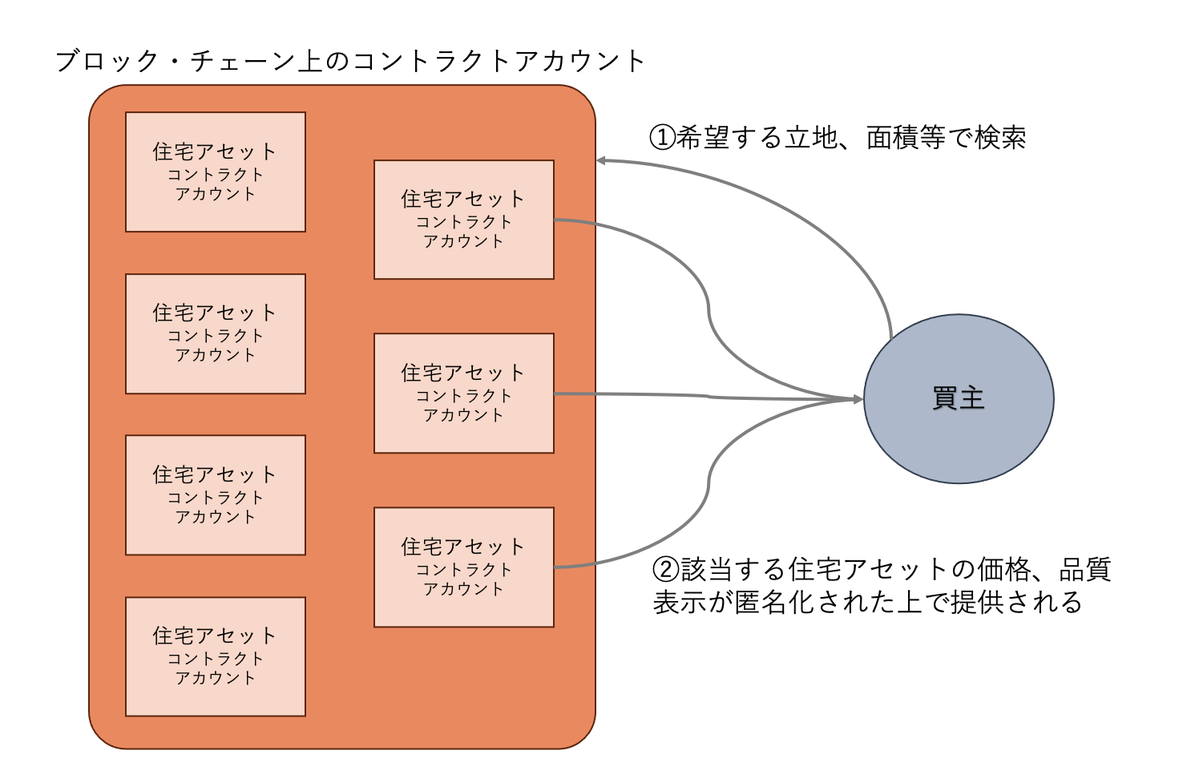
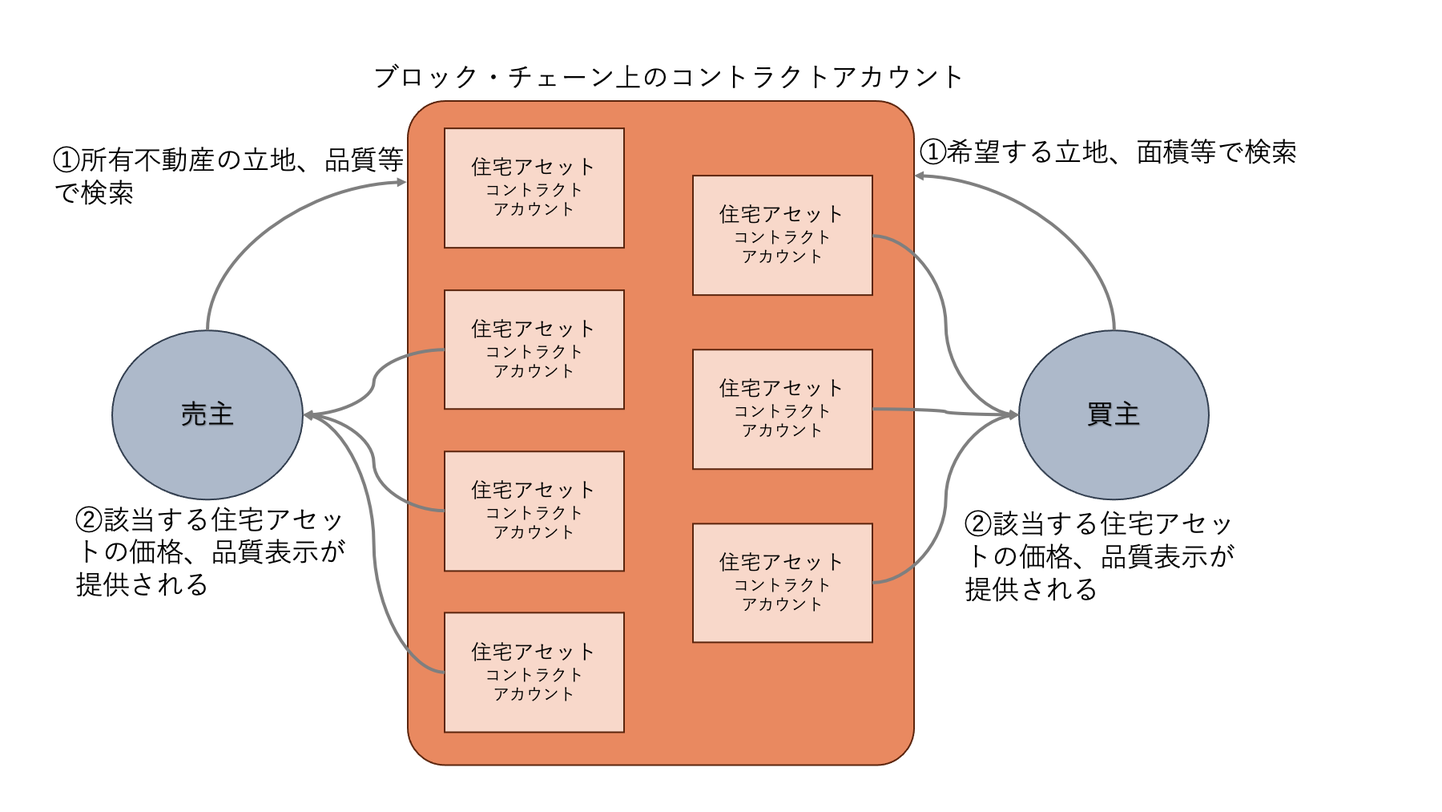
Add files via upload

diff --git a/main.tex b/main.tex
@@ -21,8 +21,8 @@
 \date{}
 \maketitle
 \begin{abstract}
-本稿では、日本の中古住宅市場を対象として、住宅の売買取引においてスマートコントラクトをどのように導入することができるか検討するとともに、スマートコントラクトの活用により住宅の品質や価格の情報が円滑に共有されることで、住宅の取引価格にどのような影響を及ぼすか検証する。
-日本の中古住宅市場は売主、買主といった市場参加者の間で住宅の品質などの情報の非対称性が高く、いわゆるレモンの市場であると指摘されている。品質などの情報の非対称性が高い結果、買主は購入する住宅の品質が低い可能性を想定し、低い値付けをする。市場に供給される住宅が全て低く値付けされることで、質の良い住宅が市場に供給されにくい悪循環が起きている。また、住宅の品質向上に必要なリフォームも、品質情報が共有されない市場では取引価格の引き上げ効果が期待できないために実施されず、住宅ストック全体の品質向上を妨げている。このような中古住宅市場の問題により、家計が保有する住宅の資産価値は低くなり、家計の活発な消費や投資に繋がらない。
+本稿では、日本の中古住宅市場を対象として、住宅の売買取引においてスマートコントラクトをどのように導入できるか検討するとともに、スマートコントラクトの活用により住宅の品質や価格の情報が円滑に共有されることで、住宅の取引価格にどのような影響を及ぼすか検証する。
+日本の中古住宅市場は売主、買主といった市場参加者の間で住宅の品質などの情報の非対称性が高く、いわゆるレモンの市場であると指摘されている。品質などの情報の非対称性が高い結果、買主は品質が低い可能性を想定し、全ての住宅を安く値付けをする。市場の住宅が全て安く値付けされることで、質の良い住宅が市場から淘汰される逆選択が起きている。また、住宅の品質向上に必要なリフォームも、品質情報が共有されない市場では、取引価格の引き上げ効果が期待できないために実施されず、住宅ストック全体の品質向上を妨げている。このような中古住宅市場の問題により、家計が保有する住宅の資産価値は低くなり、家計の活発な消費や投資に繋がらない。
 
 中古住宅市場における情報の非対称性を解消する手法として、スマートコントラクトを活用した住宅取引の導入を考える。スマートコントラクトはブロックチェーン上で資産の移転などの処理を行うプログラムである。スマートコントラクトによる資産の移転はブロックチェーン上に改ざん出来ない形で記録され、ブロックチェーンの参加者は誰もがこれらの情報を参照することができる。住宅市場へのスマートコントラクトの活用は、契約当事者双方の確実な債務履行や無権利者の取引参加を排除するといったエスクローとしての活用が中心であった。しかし、情報の非対称性が高い住宅市場においては、エスクローとしての活用に加えて、実際の住宅取引の情報を参照できるデータベースとしての活用の価値も大きい。ただし、実際の住宅取引の情報は取引参加者のプライバシーに関わる情報である事から、データベースとしての利用にあったては、参照される情報に一定の匿名性を持たせる必要がある。本稿では、これらの点を考慮したスマートコントラクトの仕様を検討する。スマートコントラクトの活用によって住宅の品質や過去の取引価格などの情報が全ての参加者から参照可能となった場合、住宅の取引価格にどのような影響が発生するかの検証には、住宅取引を単純化したゲームによるマルチエージェントシミュレーションを行った。シミュレーションでは、品質の情報が買主から参照可能になる事によって、市場全体として見た場合の売主の利得は向上し、成約率も改善することが確認できた。
 
@@ -35,18 +35,19 @@
 
 \newpage
 \chapter{序論}
-日本の住宅市場は新築住宅に偏重しており、中古住宅の流通量は少ない。2015年の国土交通白書によると日本の住宅取引全体に占める中古住宅取引の割合は14.7\%であり、アメリカ(同89.3\%)、イギリスの(同88.0\%)、フランス(同68.4\%)と比較して大幅に低い水準となっている\cite{hakusho}。一方で、総務省の住宅・土地統計調査によると、日本の住宅総数は、2018年の段階で総世帯数に対して約879万戸超過している。居住者のいない住宅の存在は都市部でも顕著であり、首都圏の一都三県における居住者のいない住宅戸数は200万戸を超えている。しかし、中古住宅市場の流通量は少なく、これらの居住者がいない住宅ストックの活用が進んでいない。このため、日本の住宅は新築から25年程度で建物の価値が半分になると指摘されている（吉田 2016)\cite{yoshida2016}。
-また、住宅が平均して建築後何年で取り壊されているかを調査した滅失住宅の平均築後年数は、日本が32.1年に対してアメリカは66.6年、イギリスは80.6年となっている\cite{kizonjutaku}。
+日本の住宅市場は新築住宅に偏重しており、中古住宅の流通量は少ない。2015年の国土交通白書によると日本の住宅取引全体に占める中古住宅取引の割合は14.7\%であり、アメリカ(同89.3\%)、イギリスの(同88.0\%)、フランス(同68.4\%)と比較して大幅に低い水準となっている\cite{hakusho}。一方で、総務省の住宅・土地統計調査によると、日本の住宅総数は、2018年の段階で総世帯数に対して約879万戸超過している。居住者のいない住宅は都市部でも顕著であり、首都圏の一都三県における居住者のいない住宅戸数は200万戸を超えている。しかし、中古住宅市場の流通量は少なく、これらの居住者がいない住宅ストックの活用が進んでいない。このため、日本の住宅は新築から25年程度で建物の価値が半分になると指摘されている（吉田 2016)\cite{yoshida2016}。
+また、住宅が平均して建築後何年で取り壊されているかを調査した滅失住宅の平均築後年数は、アメリカが66.6年、イギリスが80.6年であるのに対し、日本は32.1年であり、より短い期間で住宅が取り壊されていることがわかる\cite{kizonjutaku}。
 
-諸外国よりも相対的に短い期間で建物の価値が減少する傾向にあるものの、住宅は日本の家計の資産構成において大きな割合を占めている。日本の家計が保有する住宅・宅地資産の総額は1,000兆円を超えると言われており、家計が保有する現金・預金等の総額940兆円を上回る。しかし、日本において住宅の建物部分の価値は短い期間で減少してしまうため、国内でこれまでに行われた住宅投資の累計が約890兆円にのぼるのに対し、その現在評価額は投資額累計を500兆円以上下回る約350兆円程度であると指摘されている\cite{roundtable}。一方で、アメリカでは減価償却以上に修繕やリフォームが行われる事により住宅資産額が住宅投資額累計を上回る状況にあり、住宅がアメリカでは資産として活用されているが、日本では耐久諸費材として消費されていると指摘されている(小島 2013)\cite{kojima2013}。
+次に日本の家計の資産構成を見ると、他国よりも資産としての寿命の短い住宅が資産構成において大きな割合を占めている。日本の家計が保有する住宅・宅地資産の総額は1,000兆円を超えると言われており、家計が保有する現金・預金等の総額940兆円を上回る。しかし、日本において住宅の建物部分の価値は短い期間で減少してしまうため、国内でこれまでに行われた住宅投資の累計が約890兆円にのぼるのに対し、その現在評価額は投資額累計を500兆円以上下回る約350兆円程度であると指摘されている\cite{roundtable}。一方で、アメリカでは減価償却以上に修繕やリフォームが行われる事により住宅資産額が住宅投資額累計を上回る状況にある。このことから、アメリカでは住宅が資産として活用されているが、日本では耐久諸費材として消費されているとの指摘がされている(小島 2013)\cite{kojima2013}。
 中古住宅の評価が改善され、家計が保有する住宅資産の価値が向上すれば、住宅を資金化した場合の金融資産の増大に繋がり、それが投資や消費に回ることで日本経済に好循環をもたらすことが期待できる。
 
-日本において中古住宅の活用が進まない背景には、日本人が過度に新築を好むといった心情の問題だけでなく、消費者が中古住宅の品質や価格に不安や懸念を抱いていることも影響している。国土交通省の住宅市場動向調査において、新築の注文住宅、分譲住宅、分譲マンションの購入者に、なぜ中古住宅を購入しなかったか、理由を聞いた結果が表\ref{doukou}の通りであり、住宅の品質や瑕疵の存在を懸念して中古住宅を購入しなかった層が多数存在していることが分かる。山崎(2014)\cite{yamasaki2014}が指摘する通り、日本の中古住宅市場は、消費者が中古住宅についての情報を十分に得ることができず、売主と買主の間で大きな情報の非対称性が存在する「レモンの市場」となっており、このことが日本の中古住宅市場が拡大しない大きな要因であると考えられる。
-中古住宅市場が未整備となっている結果、ライフステージの変化に応じて住宅を売却し住み替えを行うという動因が消費者に働きにくくなる。日本では中古住宅としての売却が想定し難いため、建築主が個人の趣味に合わせた間取りやデザインを優先する注文住宅の比率が高い。日本の新築住宅に占める注文住宅の割合は7割程度、建売の分譲住宅は3割程度であるが、アメリカではこの比率が逆転しており建売の分譲住宅の方が一般的である。さらに、所有期間中のメンテナンスも必要最小限が行われるのみであり、建物の価値を維持、向上する観点からのメンテナンスが行われていない。このため、中古住宅市場には品質の低い住宅が多く供給されることになり、消費者から敬遠されるという悪循環が発生している。
+日本で中古住宅の活用が進まない背景には、日本人が過度に新築を好むといった心情の問題だけではなく、消費者が中古住宅の品質や価格に不安や懸念を抱いていることも影響している。国土交通省の住宅市場動向調査において、新築の注文住宅、分譲住宅、分譲マンションの購入者に、なぜ中古住宅を購入しなかったか、理由を聞いた結果が表\ref{doukou}の通りであり、住宅の品質や瑕疵の存在を懸念して中古住宅を購入しなかった層が多数存在していることが分かる。山崎(2014)\cite{yamasaki2014}が指摘する通り、日本の中古住宅市場は、買主が中古住宅についての情報を十分に得ることができず、売主と買主の間で大きな情報の非対称性が存在する「レモンの市場」となっている。買主は住宅の品質情報を持たないため、品質が低い可能性を考慮して全ての住宅について購入価格を引き下げる。全ての住宅の購入価格が引き下げられる結果、質の良い住宅が市場から淘汰される逆選択が起こる。このことが日本の中古住宅市場が拡大しない大きな要因であると考えられる。
 
-中古住宅市場が抱えるこれらの問題を解消するためには、市場の全ての参加者が住宅の品質や価格について、取引実績の情報を参照でき、取引時には対象となる住宅の品質情報を把握できることが有効であると考えられる。日本の既存住宅市場における情報開示量が成約価格や成約率、売り出し価格に与える影響について、藤澤（2016）\cite{fujisawa2016}は住宅の質情報がわかりやすく全開示情報となれば良質な維持管理へのインセンティブを与えると指摘している。現在でも取引実績の情報を提供する取り組みや品質情報を把握するための制度は存在するが、様々な理由から普及しているとは言い難い。スマートコントラクトの活用は、データの修正や改ざんを防ぎ、データが誰にでも参照可能な形で提供されることで、この問題の解消に寄与すると考えられる。
+中古住宅市場が拡大しない結果、ライフステージの変化に応じて住宅を売却し、住み替えを行うという動因が所有者に働きにくい。そのため、日本では建築主の趣味に合わせた間取りやデザインを優先する注文住宅の比率が高くなっている。日本の新築住宅に占める注文住宅の割合は7割程度、建売の分譲住宅は3割程度であるが、アメリカではこの比率が逆転しており建売の分譲住宅の方が一般的である。さらに、所有期間中のメンテナンスも、日本では必要最小限が行われるのみであり、建物の価値を維持、向上する観点からのメンテナンスが行われていない。情報の非対称性により中古住宅市場が活性化しないことで、質の良い中古住宅の市場供給が妨げられ、さらに買主が中古住宅を敬遠する悪循環が発生している。
 
-本稿では、第2章において日本の中古住宅市場の特徴をより詳細に確認し、第3章、4章では住宅の価格決定に関する先行研究を整理する。第5章ではスマートコントラクトの概要を整理し、第6章において住宅取引へのスマートコントラクト導入の検討を行う。第7章、8章ではスマートコントラクトが住宅取引にもたらす影響を検討するため、マルチエージェントシミュレーションによる検証を行う。第9章で関連研究との比較を行い、第10章は結論となる。
+中古住宅市場が抱えるこれらの問題を解消するためには、市場の全ての参加者が住宅の品質や価格について、取引実績を参照でき、取引対象の住宅の品質情報を正しく把握できることが必要であると考えられる。日本の既存住宅市場における情報開示量が成約価格や成約率、売り出し価格に与える影響について、藤澤（2016）\cite{fujisawa2016}は住宅の品質情報がわかりやすく全開示情報となれば良質な維持管理へのインセンティブを与えると指摘している。現在でも取引実績の情報を提供する取り組みや品質情報を把握するための制度は存在するが、様々な理由から普及しているとは言い難い。スマートコントラクトの活用は、情報の修正や改ざんを防ぎ、情報が誰にでも参照可能な形で提供されることで、この問題の解消に寄与すると考えられる。
+
+本稿では、第2章において日本の中古住宅市場の特徴をより詳細に確認し、住宅の価格決定に関する先行研究を整理するとともに、スマートコントラクトの概要を整理する。第3章では住宅取引へのスマートコントラクト導入の検討を行う。第4章ではスマートコントラクトが住宅取引にもたらす影響を検討するため、マルチエージェントシミュレーションによる検証を行い、第5章でシミュレーションの評価を行う。第6章で関連研究との比較を行い、第7章は結論となる。
 
 \begin{table}
 \begin{center}
@@ -86,7 +87,7 @@
 \chapter{背景}
 \section{日本の住宅市場}
 \subsection{日本の住宅市場の概要}
-日本の総住宅数と総世帯数の関係を見ると、1968年の調査で総住宅数が総世帯数を上回り、直近では総世帯数の1.16倍の住宅が存在している。2018年10月1日時点で日本国内には約6240万戸の住宅があり、この内879万戸には誰も居住していない。人が居住していない住宅のうち、賃貸用の住宅や売却用の住宅を除いた「空き家」は348万戸となっている\cite{tochitokei}。一方で、人が居住している住宅の所有関係を見ると、約６割が持ち家で約４割が借家となっている。世帯数に対して住宅数が超過している状況にあるものの、毎年90万戸程度の住宅が新たに供給され\cite{kenchikuchakkou}、11万戸程度の住宅が取り壊されている。住宅が頻繁に建て替えられる状況は、CO2の排出など環境面の負荷も指摘されている(The Guardian 2014)\cite{guardian}。
+日本の総住宅数と総世帯数の関係を見ると、1968年の調査で総住宅数が総世帯数を上回り、直近では総世帯数の1.16倍の住宅が存在している。2018年10月1日時点で日本国内には約6240万戸の住宅があり、この内879万戸には誰も居住していない。人が居住していない住宅のうち、賃貸用の住宅や売却用の住宅を除いた「空き家」は348万戸存在している\cite{tochitokei}。人が居住している住宅の所有関係を見ると、約6割が持ち家で約4割が借家となっている。総世帯数に対して総住宅数が大幅に超過している状況でも、日本では毎年90万戸程度の住宅が新たに供給されている\cite{kenchikuchakkou}。11万戸程度の住宅が取り壊されているが、新規供給数が多いため、総住宅数も空き家も年々増加している。前述の通り、日本の住宅は取り壊しまでの期間が短く、住宅が頻繁に建て替えられる状況については、CO2の排出など環境面の負荷も指摘されている(The Guardian 2014)\cite{guardian}。
 
 日本国内の中古住宅の取引は、戸建て住宅が年間18万件、マンションが19万件程度行われている。取引主体別の件数を見ると、売主、買主がともに個人同士で行われてる取引が、戸建て住宅で53\%、マンションで45\%であり、最も多い\cite{fudosantorihiki}。住宅をはじめとした不動産の取引は、売主と買主の仲介を行う宅地建物取引業者を介して行われることが一般的であり、売主、買主がともに個人同士の取引においても同様である。宅地建物取引業者が不動産情報の交換を行う仕組みとして不動産流通機構の「レインズ(REINS：Real Estate Information Network System)」がある。これは、不動産流通機構の会員である宅地建物取引業者がアクセスできるシステムであり、住宅の売却や購入を希望する個人は直接アクセスすることができない。宅地建物取引業者は、売却や購入の仲介の依頼を受けた情報を、必ずしも全てレインズに登録する必要はない。また、レインズに登録した物件の取引が成立した場合も、その情報がレインズに登録されない場合もある\cite{fudosanjoho}。住宅以外も含めたレインズへの売却物件の新規登録件数は、2019年が169万件であり、成約報告件数は18万件である\cite{shiteiryutsu}。
 
@@ -148,41 +149,53 @@ C=P\times(\delta+\mu+\tau+i-\pi_H)
 摩擦のない市場では資本の限界収益率がユーザーコストと等しくなるときが最適な投資となるため、住宅市場における最適な投資が行われている世界では住宅の賃料と保有コストは等しくなる。賃料を$R$とした場合、$R=C$となるように住宅の供給が決まると考えられる。しかし、実証分析では賃料と保有コストの間に乖離が確認されている(Garner and Verbrugge 2009)\cite{garner2009}。賃料と保有コストの乖離についてChinloy et al(2020)\cite{chinloy2020}は、賃料が限界費用コストに加えて住宅ローンやインフレのショックを回避するためのプレミアムを含んでいると分析している。
 
 \section{スマートコントラクト}
-スマートコントラクトは、ブロックチェーン上で資産の移転などの処理を行うプログラムであり、法的な契約ではない。従来の紙や電子契約においては、契約の条件が満たされているかの判断は自動では行われず、各契約当事者が確認を行う必要があった。スマートコントラクトでは、契約の条件が満たされたかの確認はプログラムが行い、契約内容の執行はブロックチェーン上の価値の移転によって自動的に行うことができる。スマートコントラクトで実行された内容はブロックチェーン上に改ざんできない形で記載されるため、取り消すことができない。これはCode is lawとよく言われる概念であり、スマートコントラクトにおいては、ブロックチェーン上に書かれたプログラムが、契約書であり、裁判所でもあることになるなる\cite{nagasawa2013}。
+\subsection{ブロックチェーン}
+ブロックチェーンは、あるルールによって検証された情報が納められたブロックの繋がりであり、一度ブロックに納められた情報はブロック同士の繋がりを維持したまま変更することができないため、現実的に改ざんが不可能となる。ブロックチェーンには全ての情報を一元管理する存在がなく、参加者(ノード)がそれぞれに同じ情報を保有しあっており、参加者は全てのブロックの情報を参照できるようになっている。ブロックチェーンの信頼性は、情報をブロックに納める際の検証作業で担保されるが、この検証作業には大きな計算能力が必要となる。この検証作業を行う参加者をマイナーとよび、マイナーは参加しているブロックチェーンのネイティブ通貨で報酬を受け取り検証作業を行う。斉藤(2017)\cite{saito2017}はブロックチェーンの機能の階層構造を「正当性の保証」、「存在の証明」、「唯一性の合意」、「ルールの記述・執行」で整理している。
+
+\subsection{スマートコントラクト}
+スマートコントラクトは、ブロックチェーン上で資産の移転などの処理を行うプログラムであり、法的な契約ではない。従来の紙や電子契約においては、契約の条件が満たされているかの判断は自動では行われず、各契約当事者が確認を行う必要があった。スマートコントラクトでは、契約の条件が満たされたかの確認はプログラムが行い、契約内容の執行はブロックチェーン上の価値の移転によって自動的に行うことができる。スマートコントラクトで実行された内容はブロックチェーン上に改ざんできない形で記載されるため、取り消すことができない。これはCode is lawとよく言われる概念であり、スマートコントラクトにおいては、ブロックチェーン上に書かれたプログラムが、契約書であり、裁判所でもあることになる\cite{nagasawa2013}。
 スマートコントラクトが実行されるブロックチェーンネットワークには、パブリックとプライベートの区別がある。パブリックブロックチェーンは誰でも読み込み、書き込むことができる。プライベートブロックチェーンではユーザー毎に異なる権限設定を行える。Ethereum、Bitcoinはパブリックブロックチェーンであり、プライベートブロックチェーンとしてはHyperledger Fabricなどがある。
+プライベートブロックチェーンであるEthereumを基盤としたスマートコントラクトは、スマートコントラクトの実行結果は、実行を開始するトランザクションのコンテクストと、実行時のブロックチェーンの状態を前提に、トランザクションを実行する全ての人にとって同一となる(Antonopoulos and Wood 2019)\cite{antonopoulos2019}。
 
-スマートコントラクトの概念は、Ethereumなどの分散型ブロックチェーンプラットフォームが導入されて以降、顕著に発展しているが、現時点では「デジタルに表現される資産をあらかじめ定められたルールに従って自動的に移転させることにすぎず、また、そのことすら実現上の課題が多い」（斉藤2017)\cite{saito2017}との指摘がされている。スマートコントラクトの住宅取引への活用事例としては、米国のPROPY\footnote{https://propy.com}がある。同社は不動産の売買取引において、売主と買主を取り持つ第三者として売主から権利証書、買主から売買代金を預かり、行政の登記手続きが終了するまでの間、ブロックチェーン上に取引の情報を記録し、登記手続きが完了すると権利証書と売買代金の移転を行うというサービスをオンライン上で提供している。同じく米国のRentberry\footnote{https://rentberry.com}は、米国およびヨーロッパの都市部において賃貸住宅の仲介サービスを提供しており、入居者はオンライン上で全ての契約手続きを完了させることができる。さらに、Rentberryでは、敷金の支払いが難しい入居者が第三者から敷金の借り入れを受けることができるP2Pレンディングサービスも提供している。
+\subsection{Ethereumスマートコントラクト}
+Ethereumブロックチェーンでは、外部所有アカウント(EOA)とコントラクトアカウントの2種類のアカウントがある。外部所有アカウントはブロックチェーンの参加者によって、参加者のために作成されたアカウントであり、コントラクトアカウントはトランザクションを受信することで実行されるコードを含むアカウントである。これらのアカウントはアドレスやネイティブ通貨であるEtherの残高などの情報を持っている(Antonopoulos and Wood 2019)\cite{antonopoulos2019}。
 
-日本国内での不動産分野におけるスマートコントラクト活用事例としては、株式会社GA technologiesによる不動産賃貸契約へのスマートコントラクト導入の取り組みがある\footnote{https://www.ga-tech.co.jp/news/1600/}。この取り組みは日本IBMがHyperledger Fabricを基盤として提供するIBM Blockxhain Platform上で開発を行うとの発表されていた。しかし、その後実用化したとの発表はない。
+\subsection{住宅・不動産分野における活用事例}
+スマートコントラクトの概念は、Ethereumなどの分散型ブロックチェーンプラットフォームが導入されて以降、顕著に発展しているが、現時点では「デジタルに表現される資産をあらかじめ定められたルールに従って自動的に移転させることにすぎず、また、そのことすら実現上の課題が多い」(斉藤2017)\cite{saito2017}との指摘がされている。スマートコントラクトの住宅取引への活用事例としては、米国のPROPY\footnote{https://propy.com}がある。同社は不動産の売買取引において、売主と買主を取り持つ第三者として売主から権利証書、買主から売買代金を預かり、行政の登記手続きが終了するまでの間、ブロックチェーン上に取引の情報を記録し、登記手続きが完了すると権利証書と売買代金の移転を行うというサービスをオンライン上で提供している。同じく米国のRentberry\footnote{https://rentberry.com}は、米国およびヨーロッパの都市部において賃貸住宅の仲介サービスを提供しており、入居者はオンライン上で全ての契約手続きを完了させることができる。さらに、Rentberryでは、敷金の支払いが難しい入居者が第三者から敷金の借り入れを受けることができるP2Pレンディングサービスも提供している。
+
+日本国内での不動産分野におけるスマートコントラクト活用事例としては、株式会社GA technologiesによる不動産賃貸契約へのスマートコントラクト導入の取り組みがある\footnote{https://www.ga-tech.co.jp/news/1600/}。この取り組みは、日本IBMがHyperledger Fabricを基盤として提供しているIBM Blockxhain Platform上で開発を行うとの発表されていた。しかし、その後実用化したとの発表はない。
 
 \chapter{住宅市場へのスマートコントラクトの導入}
 \section{解くべき問題}
 中古住宅市場における問題は、売主と買主の間で住宅の品質に関する情報が共有されておらず、適切な値付けが行われないことである。買主としては住宅の品質が分からない以上、品質が低い場合にも損をしないような値段づけを行うことになる。これに対して、売主、買主以外の第三者が、取引対象の住宅に対して、その品質を調査し証明を行い、その情報をブロックチェーン上に記録することを検討する。これにより、買主は住宅の品質を確認することができるようになり、ブロックチェーン上にある他の売買事例を参考にして、購入を検討している住宅に対するより適正な値付けを行うことができる。これらの情報は、現在も利用可能なアンケート調査や仲介業者の自己申告によるデータのように修正や改ざんの余地がある方法で収集された情報では、その情報全体の信頼性が下がってしまう。そのため、実際の建物状況調査の情報や取引価格などの情報が、修正や改ざんがされない形で収集されることが重要である。この観点でスマートコントラクトによって住宅取引を行い、その住宅取引の情報がブロックチェーン上に記録され、取引当事者以外のブロックチェーンの参加者が誰でも実際の取引情報を参照することができることが重要である。一方で、住宅の品質や過去の取引価格は、住宅の所有者にとっては他者に知られたくない個人情報である。個別の住宅の品質情報や価格情報を市場に提供すればするほど、市場における情報の非対称性は是正され、品質の不透明性によるディスカントは解消されると考えられるが、個人情報が侵害されるのであれば、それらの情報を提供するインセンティブが働きにくい。日本の中古住宅市場が抱える課題の解決には、情報の匿名性を担保した上で、価格や品質の情報に誰もがアクセスできる仕組みを作ることが必要であり、スマートコントラクトによる住宅取引は有効な解決策になり得る。
 
-斉藤（2017）\cite{saito2017}は不動産取引が売主、買主などの取引関係者が一同に会して行われている背景として、「意思確認の効率化と、契約不履行による様々なリスクを避けるためといった理由があると考えられる」と指摘した上で、意思確認とリスク回避の手段としてスマートコントラクトを用いて売買を成立させることができるモデルを紹介している。
+\section{住宅取引の関与者}
+本稿ではEthereumブロックチェーンを基盤とするスマートコントラクトでの住宅取引を検討する。このスマートコントラクトの関与者は売主、買主に加えて住宅の品質を調査するインスペクター、インスペクターが調査した品質を保証する保険会社であり、これらが外部所有アカウントである。コントラクトアカウントとしては住宅アセット、住宅売買契約、保険契約を想定する。それぞれのアカウントの定義及び保有する情報は以下の通りである。
+\begin{itemize}
+	\item 売主
+    \par 住宅アセットに所有者として登録されている外部所有アカウント。売買取引の実施にあたりトランザクションを作成し実行することができる。
+    \item 買主
+    \par 住宅取引の相手方となる外部所有アカウント。購入代金としてEtherを所有している。売買取引の実施にあたりトランザクションを作成し実行することができる。
+    \item インスペクター
+    \par 建物状況調査を実施できる資格を持つ外部所有アカウント。住宅アセットの住宅性能表示を登録することができる。
+    \item 保険会社
+    \par 住宅瑕疵担保責任保険法人である外部所有アカウント。保険契約における保険会社になることができる。
+	\item 住宅アセット	
+	\par 土地及び土地に付属する建物の所有権をデジタル資産として表現したコントラクトアカウント。他の住宅アセットと識別するための住所、面積、過去の取引価格、所有者のアドレス、住宅性能表示、保険契約の情報を持つ。所有者のアドレス、住所以外の情報は第三者から参照可能となっている。
+	\item 住宅取引契約
+    \par 住宅アセットの所有者の変更を行うコントラクトアカウント。売主または買主のトランザクションで開始される。売主からの所有権移転トランザクションと買主の送金トランザクションが揃った場合に住宅アセットに所有者移転のトランザクションを送る。
+	\item 保険契約
+    \par 保険契約を行うコントラクトアカウント。売主または買主のトランザクションで開始される。インスペクターに住宅性能表示の実施を指示し、保険会社には住宅性能表示の検証を指示する。
+\end{itemize}
 
-図\ref{search}は
+\section{取引情報の検索}
+転職や結婚などの事情により、住宅の売却または購入を行う場合、人々はそれぞれに自身が所有する住宅がいくらで売れるか、自身が購入を希望する住宅がいくらで帰るか相場を調べる。スマートコントラクトを用いた住宅取引では、住宅アセットのコントラクトアカウントがそれぞれに住宅性能表示の情報、過去の取引価格情報を保有している。売主は自身が所有する住宅と類似する立地や品質などで検索を行い、参照価格の情報を得ることができる(図\ref{search})。
+
 \begin{figure}
  \centering
  \includegraphics[width=15cm]{search.png}
- \caption{住宅情報の探索}
+ \caption{ブロックチェーン上の住宅アセットの情報探索}
  \label{search}
-\end{figure}
-
-図\ref{spa}は
-\begin{figure}
- \centering
- \includegraphics[width=15cm]{spa.png}
- \caption{スマートコントラクトでの売買契約}
- \label{spa}
-\end{figure}
-
-図\ref{insurance}は
-\begin{figure}
- \centering
- \includegraphics[width=15cm]{insurance.png}
- \caption{保険契約の締結}
- \label{insurance}
 \end{figure}
 
 図\ref{flow}は
@@ -193,45 +206,38 @@ C=P\times(\delta+\mu+\tau+i-\pi_H)
  \label{flow}
 \end{figure}
 
+\section{住宅取引契約}
+住宅取引のコントラクトアカウントは、売主または買主からのトランザクションで開始される。図\ref{spa}
 
+\begin{figure}
+ \centering
+ \includegraphics[width=15cm]{spa.png}
+ \caption{住宅売買取引}
+ \label{spa}
+\end{figure}
+
+
+\section{保険契約}
+保険契約のコントラクトアカウントは、売主または買主からのトランザクションで開始される。図\ref{insurance}
+
+\begin{figure}
+ \centering
+ \includegraphics[width=15cm]{insurance.png}
+ \caption{保険契約の締結}
+ \label{insurance}
+\end{figure}
+
+\section{スマートコントラクトのコスト}
+Ethereumブロックチェーンにおいてスマートコントラクトを実行する場合、Gasと呼ばれる手数料が必要となる。コントラクトは通常、実行にあたって使用されるガスの上限であるガスリミットが設定されている。
+
+\subsection{唯一性の合意}
+
+%斉藤（2017）\cite{saito2017}は不動産取引が売主、買主などの取引関係者が一同に会して行われている背景として、「意思確認の効率化と、契約不履行による様々なリスクを避けるためといった理由があると考えられる」と指摘した上で、意思確認とリスク回避の手段としてスマートコントラクトを用いて売買を成立させることができるモデルを紹介している。
 
 \chapter{シミュレーションの実行}
 住宅の品質を新築時に決まるものと、所有期間における維持管理によって決まるものに分類し、売主は住宅を売却する段階で品質を変更することはできず、品質を所与として価格設定を行うものとする。売主は住宅を所有するもの中から$\lambda_{d}$の確率で発生するとする。
 
 藤澤(2016)では、売主と買主はそれぞれ同数として、売主、買主の探索の摩擦を考慮していない。しかし、現実の住宅取引においては、売主と買主の数は等しいとは限らない。Duffie(2007)は売主の数が買主よりも少ない場合、取引価格は減少すると指摘している。そこで本研究では、住宅の所有者のうち、一定の確率で住宅を所有する意思が低下し、
-\section{住宅取引の関与者}
-売主、買主に加えてインスペクター、保険会社%、銀行
-が関与すると想定される。これらがそれぞれに外部所有アカウントを持っている。今回検討するモデルでは住宅自体がアカウントをもち、品質情報を持っていることを考える。
-\begin{itemize}
-	\item 売主
-    \par 住宅アセットに所有者として登録されている外部所有アカウント。売買の実施にあたりトランザクションを作成し実行することができる。
-    \item 買主
-    \par 住宅の取得を希望している外部所有アカウント。Ethereumの場合はEtherを所有している。売買の実施にあたりトランザクションを作成し実行することができる。
-    \item インスペクター
-    \par 
-    \item 保険会社
-    %\item 銀行
-	\item 住宅アセット	
-	\par 土地及び土地に付属する建物の所有権をデジタル資産として表現したコントラクトアカウント。他の住宅アセットと識別するための住所、面積の情報、過去の取引価格、住宅性能表示、保険契約の情報を持っており、これらの情報は第三者から参照可能となっている。
-	\item 住宅売買契約
-	\item 保険契約
-
-\end{itemize}
-
-
-\section{ブロックチェーンネットワークの選択}
-
-
-\section{コントラクト}
-
-\section{匿名化}
-Ethereumを基盤としたスマートコントラクトを活用する際の情報の匿名化の手法として、ZK-snaksがある。
-
-zk-SNARKs in Ethereum
-Developers have already started integrating zk-SNARKs into Ethereum. What does this look like? Concretely, you can add the building blocks of the verification algorithm to Ethereum in the form of precompiled contracts. Here’s how: run the generator off-chain to produce the proving key and verification key. Any prover can then use the proving key to create a proof, also off-chain. You can then run the general verification algorithm inside a smart contract, using the proof, the verification key, and the public input as input parameters. You can then use the outcome of the verification algorithm to trigger other on-chain activity.
-https://consensys.net/blog/blockchain-development/introduction-to-zk-snarks
-\section{スマートコントラクトのコスト}
-Ethereumブロックチェーンにおいてスマートコントラクトを実行する場合、Gasと呼ばれる手数料が必要となる。コントラクトは通常、実行にあたって使用されるガスの上限であるガスリミットが設定されている。
 
 \section{ゲームのルール}
 現在の住宅取引は、売主と買主の間で住宅の品質に関する情報の有無が異なるため、非対称情報ゲームとして記述することができる。売主は所有する住宅の品質を知っており、品質に比べて不当に高い値付けを行うか、品質に応じた値付けを行うかの2つの選択肢をとり得ると想定する。売主は住宅の保有コストを負担しており、住宅の売却ができなかった場合、保有コスト分の損を被る。買主は売主からの価格の提示を受けて買うか買わないか判断し、購入した後で住宅の品質に応じて利得が確定する。住宅の品質を$H$、住宅保有コストを$C_s$、売主が高い値付けをする場合の利鞘を$P$、買主が住宅を購入できない間に負担するコストを$C_b$とすると、売主と買主の各戦略における利得は表\ref{ritoku}となる。
